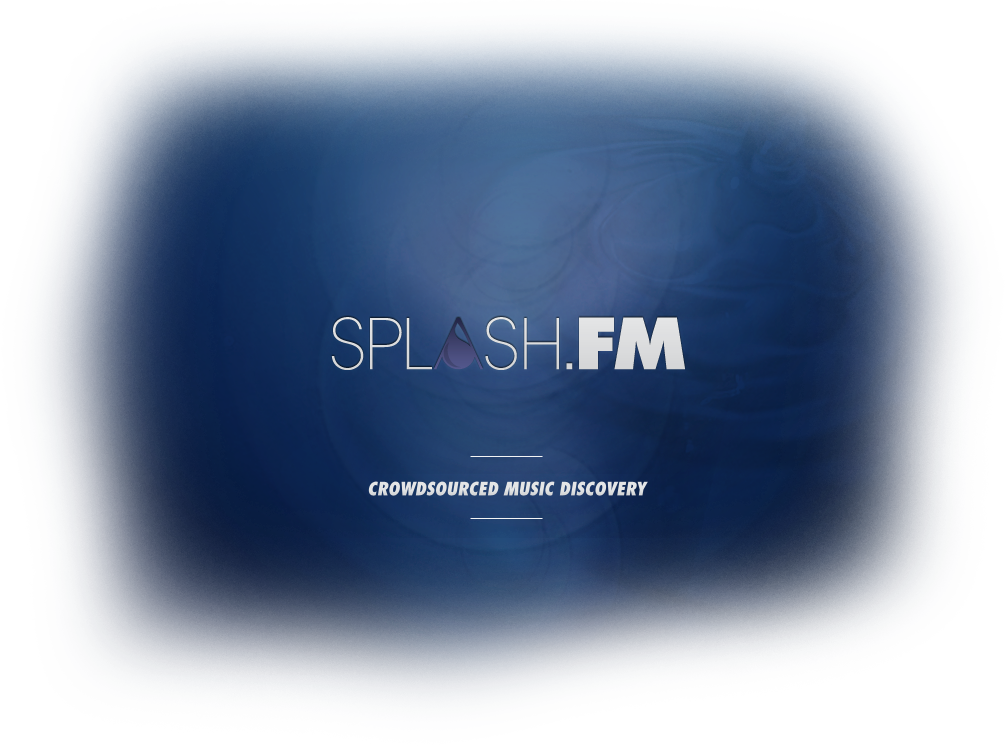
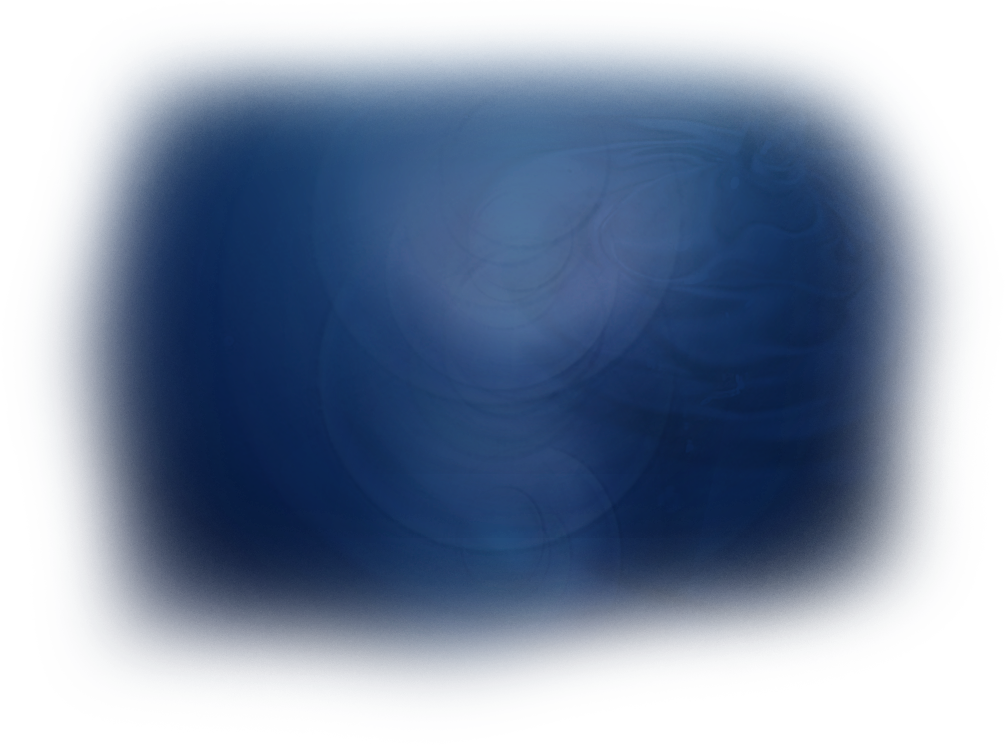
Show splash page when visitors access the preview host.

Changed region(s): [[0.3085, 0.4008, 0.6786, 0.4933], [0.3701, 0.6475, 0.6478, 0.6783]]

diff --git a/app/controllers/application_controller.rb b/app/controllers/application_controller.rb
@@ -111,7 +111,7 @@ class ApplicationController < ActionController::Base
   end
 
 
-  before_filter :check_http_auth
+  before_filter :check_http_auth, :unless => :preview?
   def check_http_auth
     auth = AppConfig.http_auth
     if auth && ! Rails.env.test?
@@ -183,5 +183,9 @@ class ApplicationController < ActionController::Base
   helper_method :next_page
   def next_page
     current_page + 1
+  end
+
+  def preview?
+    AppConfig.preview_host && request.host =~ /#{AppConfig.preview_host}$/
   end
 end

diff --git a/app/controllers/home_controller.rb b/app/controllers/home_controller.rb
@@ -12,6 +12,8 @@ class HomeController < ApplicationController
       @events = dashboard_events(true)
 
       render
+    elsif preview?
+      render 'preview', :layout => false
     else
       redirect_to new_user_session_path
     end
